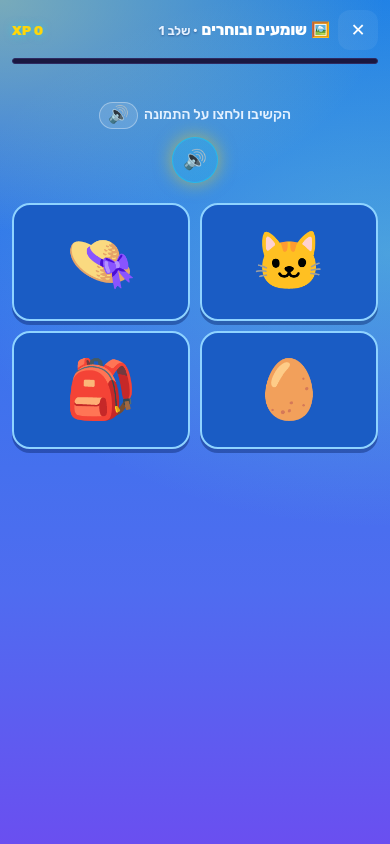
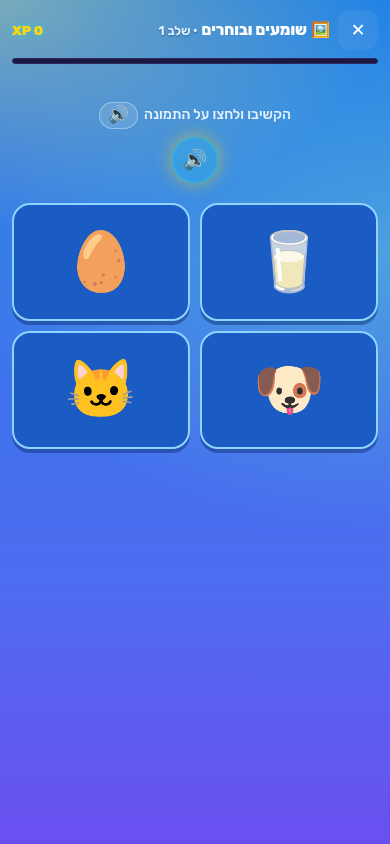
Live tests eq-3.4.0: mobile grades 1–3 + extras (migration, profiles, offline)

diff --git a/TESTS-3.4.0.md b/TESTS-3.4.0.md
@@ -1,0 +1,7 @@
+# eq-3.4.0 live test evidence
+
+Run against https://dudidd-wq.github.io/english-quest/ (SW eq-3.4.0), tools/test_v3.js unless noted. Times are Asia/Jerusalem.
+
+| when | chunk | runs | fails | result |
+|---|---|---|---|---|
+| 2026-10-26 04:10 | mobile grades 1–3 + extras (migration, profiles, offline) | 4 | 0 | ERRORS 0 / EXIT 0 |
